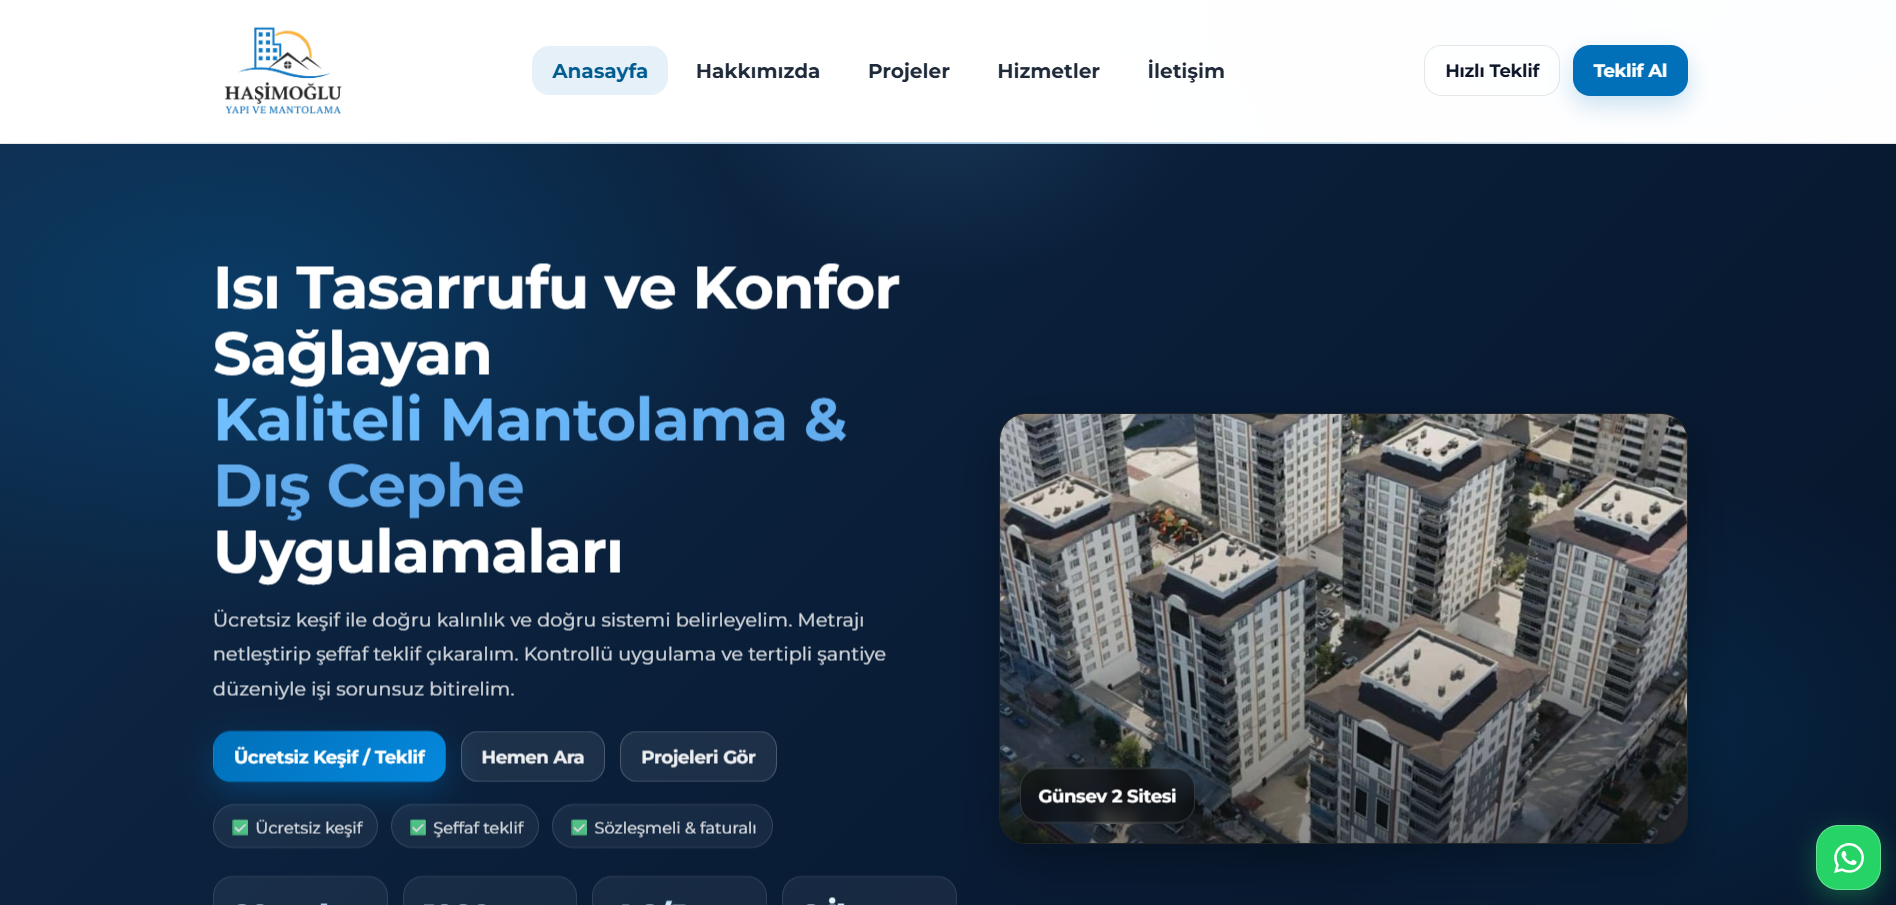
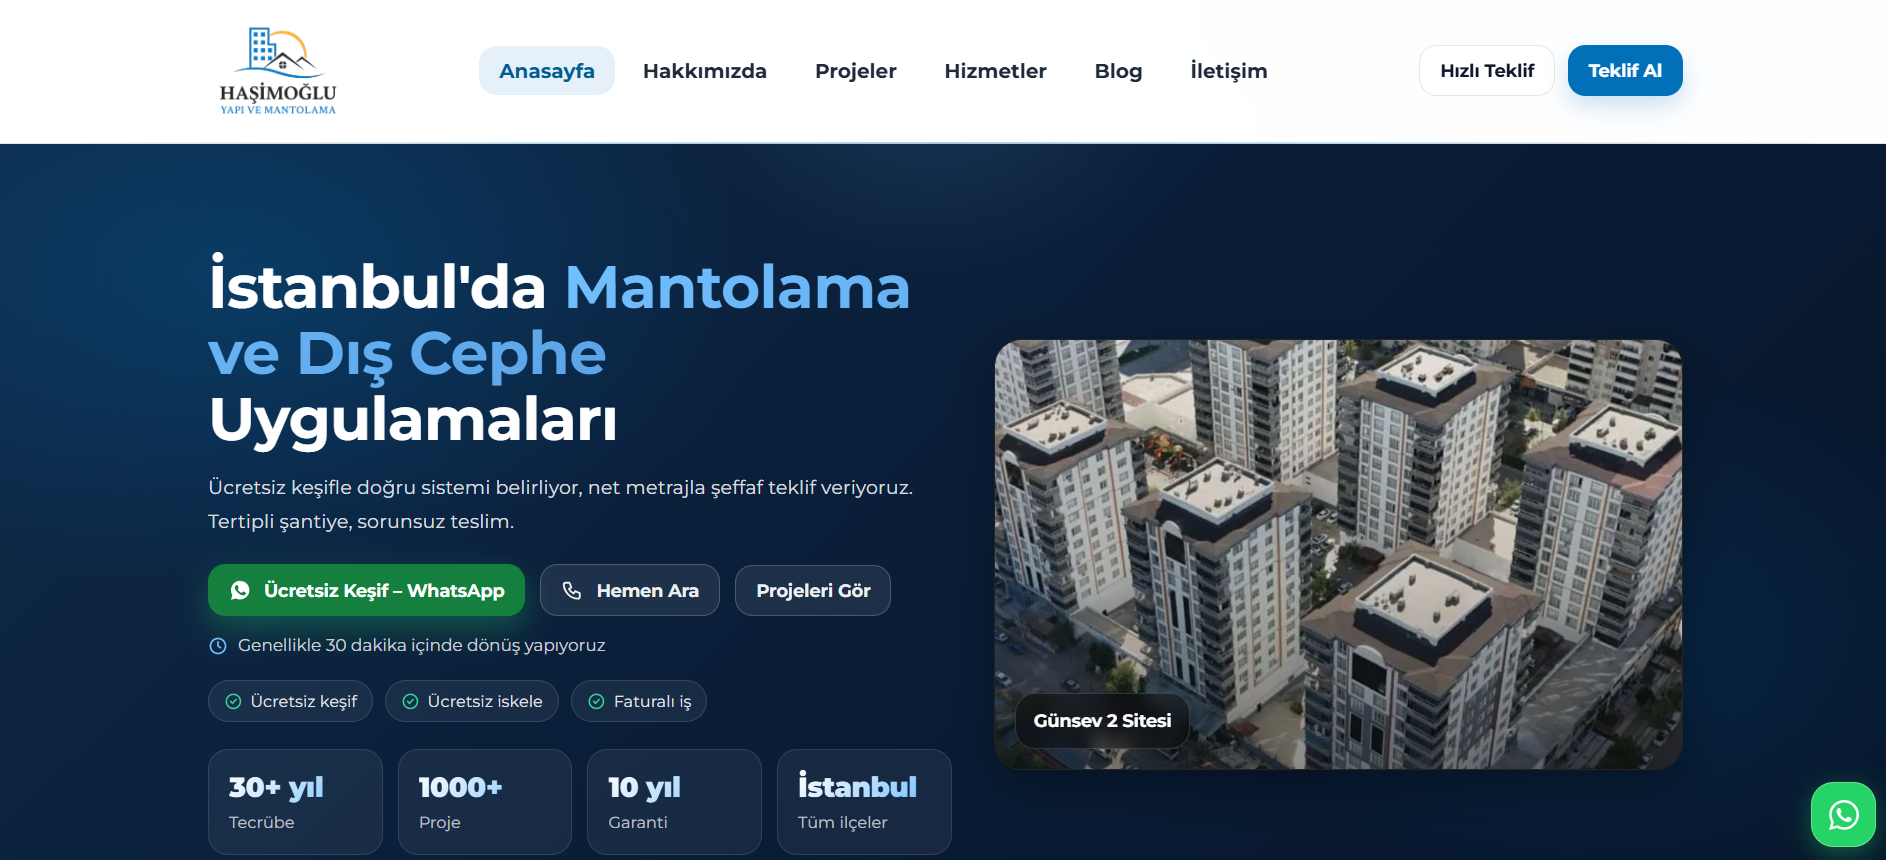
reorder portfolio projects

diff --git a/index.html b/index.html
@@ -193,7 +193,7 @@
             "url": "https://ayvexdevelopment.com/",
             "logo": "https://ayvexdevelopment.com/assets/ayvex-logo-alone.png",
             "image": "https://ayvexdevelopment.com/assets/ayvex-logo-alone.png",
-            "email": "info@ayvexdevelopment.com",
+            "email": "ayvexdevelopment@gmail.com",
             "description": "Markalar ve girişimler için web sitesi, mobil uygulama ve SaaS projelerini strateji, tasarım, yazılım ve yayına alma dahil uçtan uca geliştiren bağımsız teknoloji stüdyosu.",
             "foundingLocation": {
               "@type": "Place",
@@ -210,7 +210,7 @@
             },
             "contactPoint": {
               "@type": "ContactPoint",
-              "email": "info@ayvexdevelopment.com",
+              "email": "ayvexdevelopment@gmail.com",
               "contactType": "customer support",
               "availableLanguage": ["Turkish", "English"]
             }
@@ -593,8 +593,66 @@
           </div>
 
           <div class="work-grid">
-            <!-- 01 · HAŞİMOĞLU -->
+            <!-- 01 · ZAPFILE -->
             <article class="work-card reveal" data-delay="1">
+              <div class="work-art gradient-b">
+                <div class="browser-window has-shot">
+                  <div class="browser-chrome">
+                    <div class="chrome-dots">
+                      <span></span><span></span><span></span>
+                    </div>
+                    <div class="chrome-url">zapfile.xyz</div>
+                  </div>
+                  <div class="browser-shot">
+                    <img
+                      src="./assets/mockup-zapfile.png"
+                      alt="ZapFile ekran görüntüsü"
+                      loading="lazy"
+                      decoding="async"
+                      width="1912"
+                      height="896"
+                      onerror="this.classList.add('shot-missing')"
+                    />
+                  </div>
+                </div>
+              </div>
+
+              <div class="work-copy">
+                <p class="work-type project-tr">
+                  SAAS PLATFORMU · MÜŞTERİ PROJESİ
+                </p>
+                <p class="work-type project-en">
+                  SAAS PLATFORM · CLIENT PROJECT
+                </p>
+
+                <h3>ZapFile</h3>
+
+                <p class="project-block project-tr">
+                  Tarayıcı içinde çalışan çok araçlı dosya ve üretkenlik
+                  platformunu sıfırdan geliştirdik; bilgi mimarisi, arayüz
+                  sistemi, performans ve production yayınını birlikte
+                  kurguladık.
+                </p>
+                <p class="project-block project-en">
+                  We built a browser-based productivity and file-tools platform
+                  from the ground up, covering information architecture,
+                  interface systems, performance and production deployment.
+                </p>
+
+                <div class="work-links">
+                  <a
+                    class="work-link"
+                    href="https://www.zapfile.xyz/"
+                    target="_blank"
+                    rel="noreferrer"
+                    >↗ zapfile.xyz</a
+                  >
+                </div>
+              </div>
+            </article>
+
+            <!-- 02 · HAŞİMOĞLU -->
+            <article class="work-card reveal" data-delay="2">
               <div class="work-art gradient-a">
                 <div class="browser-window has-shot">
                   <div class="browser-chrome">
@@ -649,23 +707,23 @@
               </div>
             </article>
 
-            <!-- 02 · LOGUNA -->
-            <article class="work-card reveal" data-delay="2">
-              <div class="work-art gradient-b">
+            <!-- 03 · FRUIT MERGE -->
+            <article class="work-card reveal" data-delay="3">
+              <div class="work-art gradient-a">
                 <div class="browser-window has-shot">
                   <div class="browser-chrome">
                     <div class="chrome-dots">
                       <span></span><span></span><span></span>
                     </div>
-                    <div class="chrome-url">loguna.com.tr</div>
+                    <div class="chrome-url">Fruit Merge · Mobile Game</div>
                   </div>
                   <div class="browser-shot">
                     <img
-                      src="./assets/mockup-loguna-analysis.png"
-                      alt="Loguna YKS ve LGS analiz uygulaması"
+                      src="./assets/mockup-fruit-merge.png"
+                      alt="Fruit Merge Meyve Birleştir mobil oyunu"
                       loading="lazy"
                       decoding="async"
-                      width="1897"
+                      width="1663"
                       height="903"
                       onerror="this.classList.add('shot-missing')"
                     />
@@ -675,39 +733,38 @@
 
               <div class="work-copy">
                 <p class="work-type project-tr">
-                  EĞİTİM / ANALİZ PLATFORMU · MÜŞTERİ PROJESİ
+                  MOBİL OYUN · AYVEX DEVELOPMENT
                 </p>
                 <p class="work-type project-en">
-                  EDUCATION / ANALYTICS PLATFORM · CLIENT PROJECT
+                  MOBILE GAME · AYVEX DEVELOPMENT
                 </p>
 
-                <h3>Loguna</h3>
+                <h3>Fruit Merge – Meyve Birleştir</h3>
 
                 <p class="project-block project-tr">
-                  YKS ve LGS'ye hazırlanan öğrenciler için geliştirilen analiz
-                  uygulaması. Konu takibi, eksik analizi, performans takibi ve
-                  çalışma planını tek deneyimde bir araya getiriyoruz.
+                  Meyveleri birleştirerek ilerlediğiniz, sade ve renkli bir
+                  mobil oyun. Koleksiyon, tema ve skor sistemiyle uzun süreli
+                  oynanış için tasarlandı.
                 </p>
                 <p class="project-block project-en">
-                  An analytics platform for YKS and LGS students, bringing topic
-                  tracking, gap analysis, performance monitoring and study
-                  planning into one experience.
+                  A simple and colorful mobile game built around fruit merging,
+                  collection, themes and score-based progression.
                 </p>
 
                 <div class="work-links">
                   <a
                     class="work-link"
-                    href="https://loguna.com.tr/"
+                    href="https://play.google.com/store/apps/details?id=com.loguna.app"
                     target="_blank"
                     rel="noreferrer"
-                    >↗ loguna.com.tr</a
+                    >↗ Play Store</a
                   >
                 </div>
               </div>
             </article>
 
-            <!-- 03 · PULSE -->
-            <article class="work-card reveal" data-delay="3">
+            <!-- 04 · PULSE -->
+            <article class="work-card reveal" data-delay="4">
               <div class="work-art gradient-c">
                 <div class="browser-window has-shot">
                   <div class="browser-chrome">
@@ -763,23 +820,23 @@
               </div>
             </article>
 
-            <!-- 04 · FRUIT MERGE -->
-            <article class="work-card reveal" data-delay="4">
-              <div class="work-art gradient-a">
+            <!-- 05 · LOGUNA -->
+            <article class="work-card reveal" data-delay="5">
+              <div class="work-art gradient-b">
                 <div class="browser-window has-shot">
                   <div class="browser-chrome">
                     <div class="chrome-dots">
                       <span></span><span></span><span></span>
                     </div>
-                    <div class="chrome-url">Fruit Merge · Mobile Game</div>
+                    <div class="chrome-url">loguna.com.tr</div>
                   </div>
                   <div class="browser-shot">
                     <img
-                      src="./assets/mockup-fruit-merge.png"
-                      alt="Fruit Merge Meyve Birleştir mobil oyunu"
+                      src="./assets/mockup-loguna-analysis.png"
+                      alt="Loguna YKS ve LGS analiz uygulaması"
                       loading="lazy"
                       decoding="async"
-                      width="1663"
+                      width="1897"
                       height="903"
                       onerror="this.classList.add('shot-missing')"
                     />
@@ -789,89 +846,32 @@
 
               <div class="work-copy">
                 <p class="work-type project-tr">
-                  MOBİL OYUN · AYVEX DEVELOPMENT
+                  EĞİTİM / ANALİZ PLATFORMU · MÜŞTERİ PROJESİ
                 </p>
                 <p class="work-type project-en">
-                  MOBILE GAME · AYVEX DEVELOPMENT
+                  EDUCATION / ANALYTICS PLATFORM · CLIENT PROJECT
                 </p>
 
-                <h3>Fruit Merge – Meyve Birleştir</h3>
+                <h3>Loguna</h3>
 
                 <p class="project-block project-tr">
-                  Meyveleri birleştirerek ilerlediğiniz, sade ve renkli bir
-                  mobil oyun. Koleksiyon, tema ve skor sistemiyle uzun süreli
-                  oynanış için tasarlandı.
+                  YKS ve LGS'ye hazırlanan öğrenciler için geliştirilen analiz
+                  uygulaması. Konu takibi, eksik analizi, performans takibi ve
+                  çalışma planını tek deneyimde bir araya getiriyoruz.
                 </p>
                 <p class="project-block project-en">
-                  A simple and colorful mobile game built around fruit merging,
-                  collection, themes and score-based progression.
+                  An analytics platform for YKS and LGS students, bringing topic
+                  tracking, gap analysis, performance monitoring and study
+                  planning into one experience.
                 </p>
 
                 <div class="work-links">
                   <a
                     class="work-link"
-                    href="https://play.google.com/store/apps/details?id=com.loguna.app"
+                    href="https://loguna.com.tr/"
                     target="_blank"
                     rel="noreferrer"
-                    >↗ Play Store</a
-                  >
-                </div>
-              </div>
-            </article>
-
-            <!-- 05 · ZAPFILE -->
-            <article class="work-card reveal" data-delay="5">
-              <div class="work-art gradient-b">
-                <div class="browser-window has-shot">
-                  <div class="browser-chrome">
-                    <div class="chrome-dots">
-                      <span></span><span></span><span></span>
-                    </div>
-                    <div class="chrome-url">zapfile.xyz</div>
-                  </div>
-                  <div class="browser-shot">
-                    <img
-                      src="./assets/mockup-zapfile.png"
-                      alt="ZapFile ekran görüntüsü"
-                      loading="lazy"
-                      decoding="async"
-                      width="1912"
-                      height="896"
-                      onerror="this.classList.add('shot-missing')"
-                    />
-                  </div>
-                </div>
-              </div>
-
-              <div class="work-copy">
-                <p class="work-type project-tr">
-                  SAAS PLATFORMU · MÜŞTERİ PROJESİ
-                </p>
-                <p class="work-type project-en">
-                  SAAS PLATFORM · CLIENT PROJECT
-                </p>
-
-                <h3>ZapFile</h3>
-
-                <p class="project-block project-tr">
-                  Tarayıcı içinde çalışan çok araçlı dosya ve üretkenlik
-                  platformunu sıfırdan geliştirdik; bilgi mimarisi, arayüz
-                  sistemi, performans ve production yayınını birlikte
-                  kurguladık.
-                </p>
-                <p class="project-block project-en">
-                  We built a browser-based productivity and file-tools platform
-                  from the ground up, covering information architecture,
-                  interface systems, performance and production deployment.
-                </p>
-
-                <div class="work-links">
-                  <a
-                    class="work-link"
-                    href="https://www.zapfile.xyz/"
-                    target="_blank"
-                    rel="noreferrer"
-                    >↗ zapfile.xyz</a
+                    >↗ loguna.com.tr</a
                   >
                 </div>
               </div>
@@ -1550,9 +1550,9 @@
                   >
                   <a
                     class="contact-summary-link"
-                    href="mailto:info@ayvexdevelopment.com"
+                    href="mailto:ayvexdevelopment@gmail.com"
                     data-i18n="contact.summary3Value"
-                    >info@ayvexdevelopment.com</a
+                    >ayvexdevelopment@gmail.com</a
                   >
                 </div>
               </div>
@@ -1756,8 +1756,8 @@
                     <span data-i18n="contact.directLabel"
                       >Doğrudan yazmak isterseniz</span
                     >
-                    <a href="mailto:info@ayvexdevelopment.com"
-                      >info@ayvexdevelopment.com</a
+                    <a href="mailto:ayvexdevelopment@gmail.com"
+                      >ayvexdevelopment@gmail.com</a
                     >
                   </p>
                   <p
@@ -1787,13 +1787,13 @@
               <div class="footer-contact-card">
                 <a
                   class="footer-email-link"
-                  href="mailto:info@ayvexdevelopment.com"
-                  >info@ayvexdevelopment.com</a
+                  href="mailto:ayvexdevelopment@gmail.com"
+                  >ayvexdevelopment@gmail.com</a
                 >
                 <button
                   type="button"
                   class="footer-mail-copy mail-copy-button"
-                  data-copy-mail="info@ayvexdevelopment.com"
+                  data-copy-mail="ayvexdevelopment@gmail.com"
                 >
                   <svg
                     viewBox="0 0 24 24"
@@ -1864,8 +1864,8 @@
               </div>
               <div class="footer-col">
                 <h4 data-i18n="footer.colContact">İletişim</h4>
-                <a href="mailto:info@ayvexdevelopment.com"
-                  >info@ayvexdevelopment.com</a
+                <a href="mailto:ayvexdevelopment@gmail.com"
+                  >ayvexdevelopment@gmail.com</a
                 >
                 <p class="footer-loc" data-i18n="footer.location">
                   İstanbul, Türkiye
